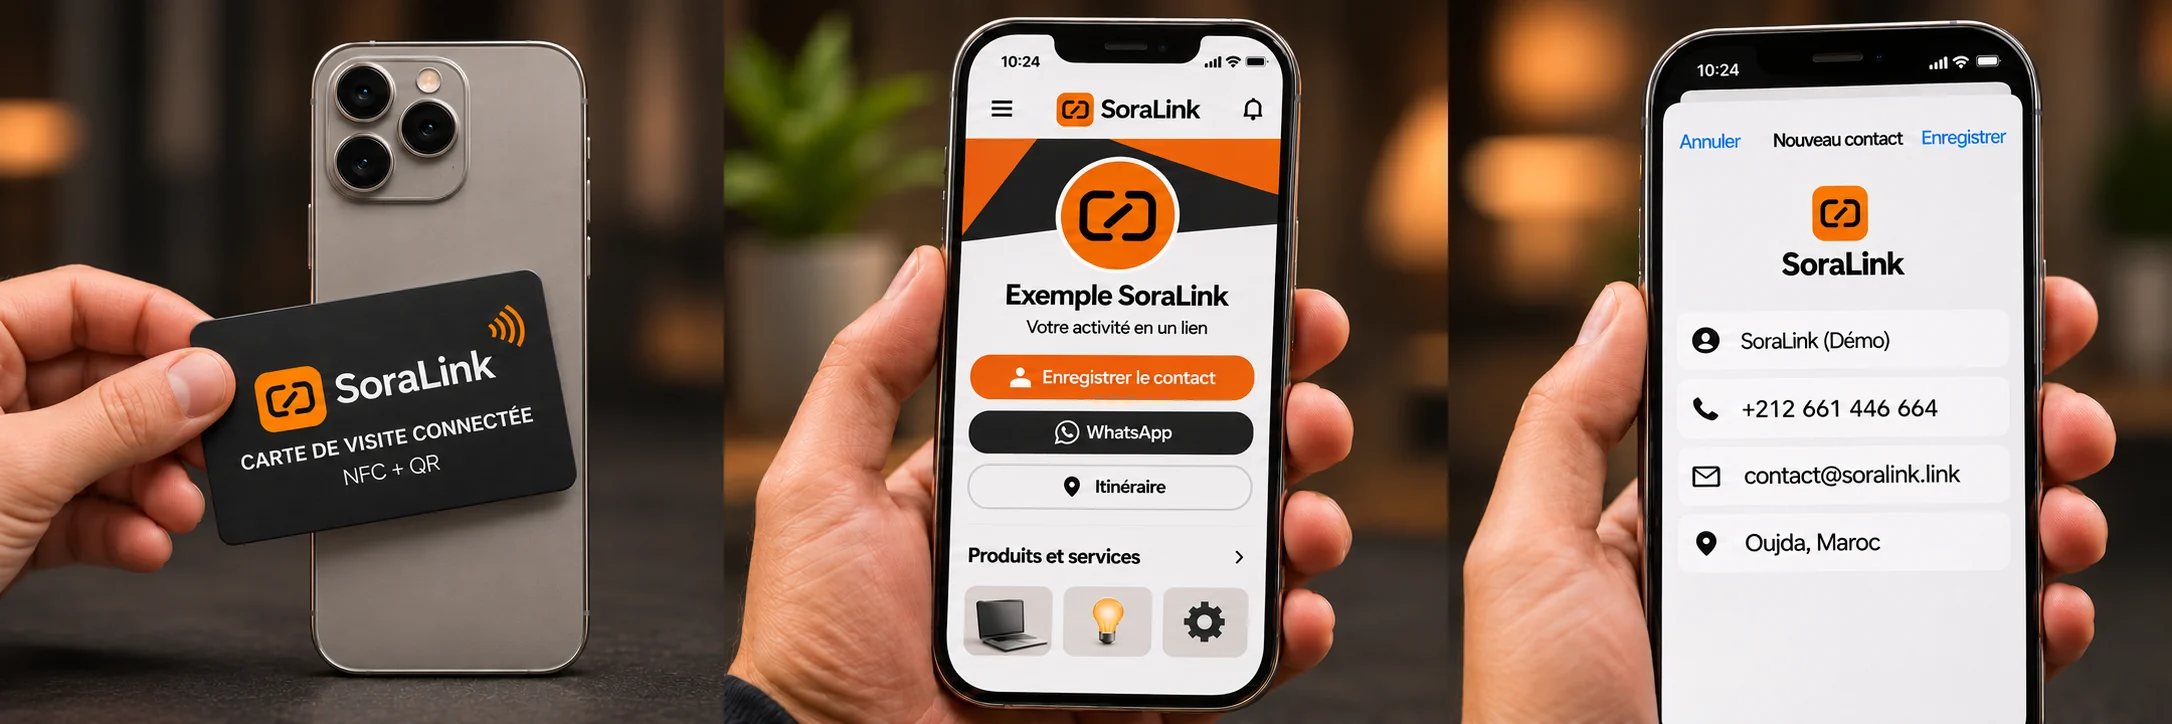
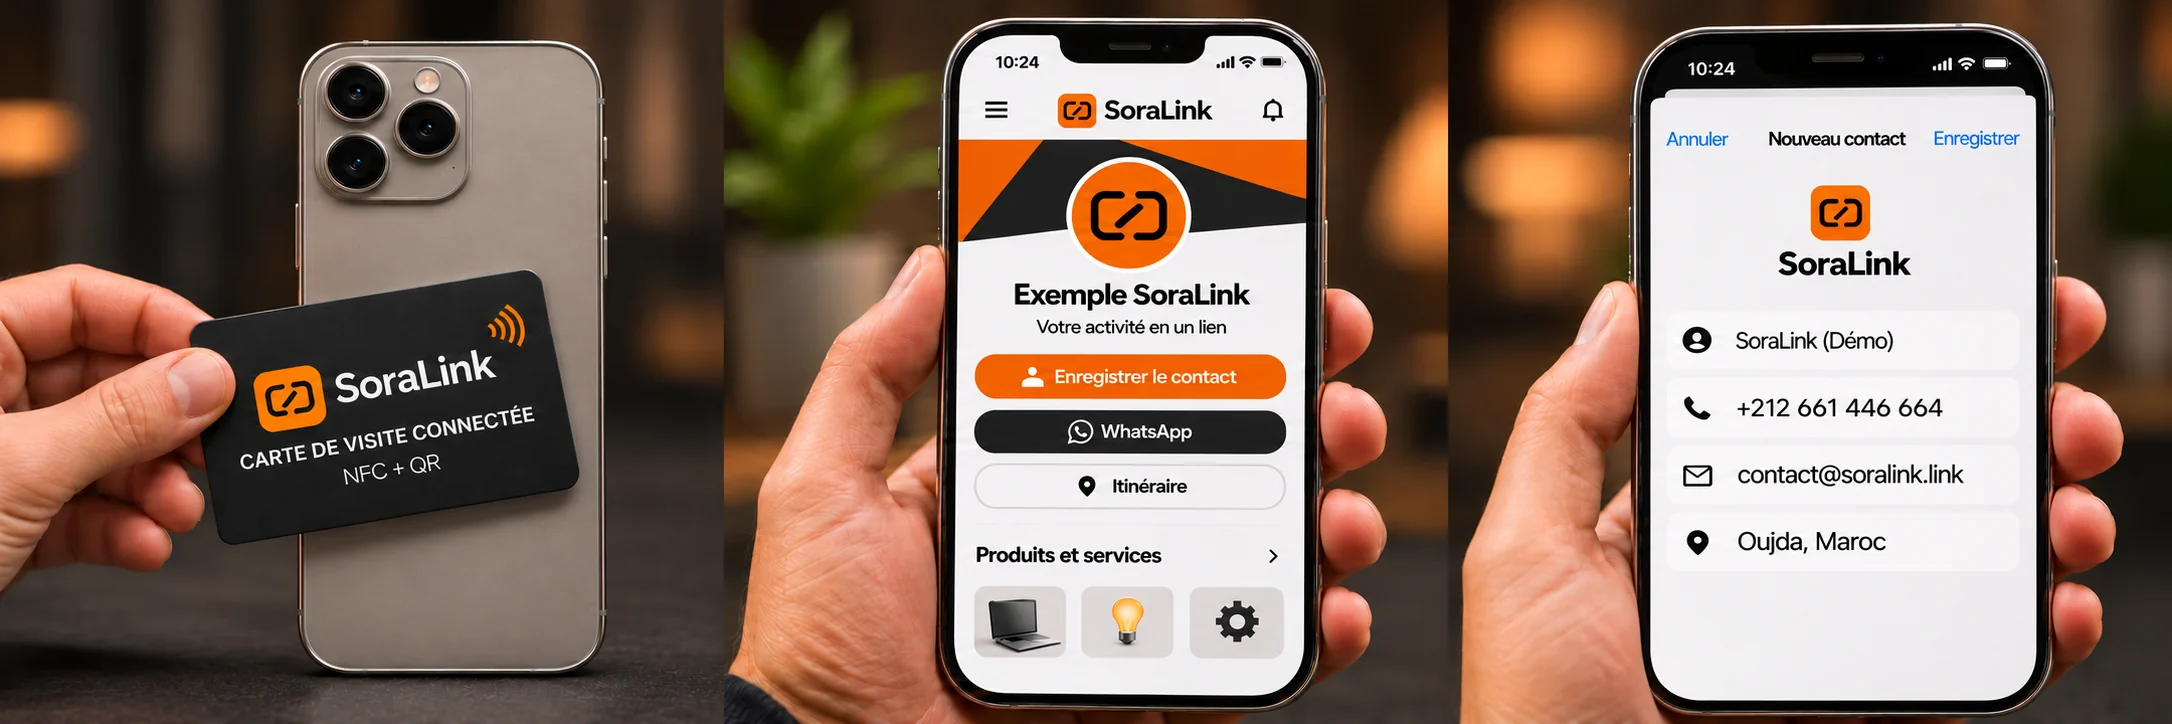
Ajuster les proportions des téléphones et le contraste de l’accueil

diff --git a/app/landing-visual.css b/app/landing-visual.css
@@ -43,7 +43,7 @@
   padding: 40px 32px;
 }
 .design-system .site .landing-visual h1 {
-  color: #fafafa;
+  color: #fafafa !important;
   font-size: clamp(40px, 4.6vw, 64px);
   line-height: 1.08;
   letter-spacing: -0.045em;
@@ -52,7 +52,7 @@
   text-wrap: initial;
 }
 .design-system .site .landing-visual h1 em {
-  color: #ff9125;
+  color: #ff9125 !important;
   font-style: normal;
 }
 .design-system .site .landing-visual .visual-hero-copy > p {
@@ -204,7 +204,7 @@
 .design-system .site .landing-visual .visual-phone h3 {
   font-size: 18px;
   text-align: center;
-  color: #161619;
+  color: #161619 !important;
   margin: 0 0 16px;
 }
 .design-system .site .landing-visual .visual-phone-actions {
